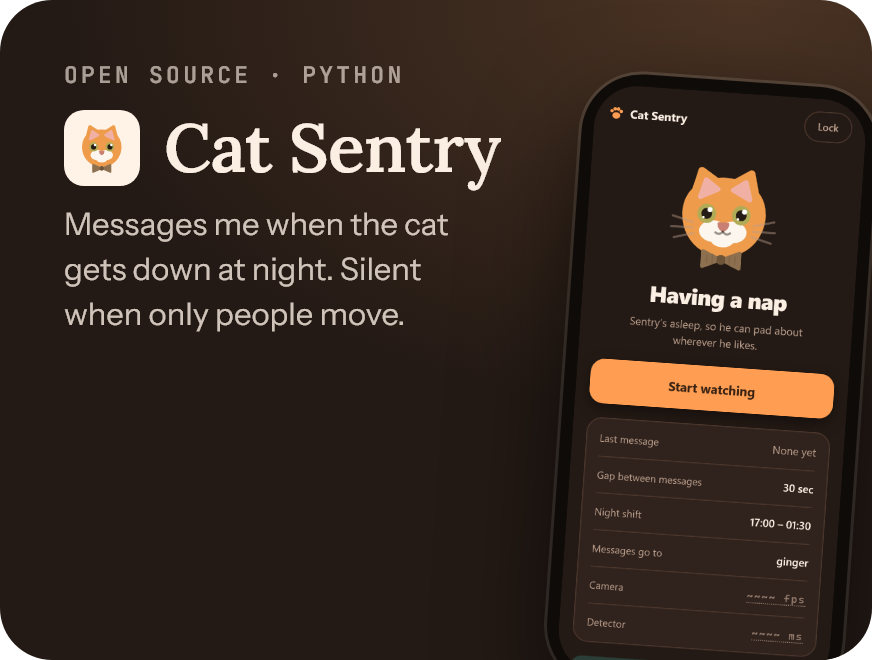
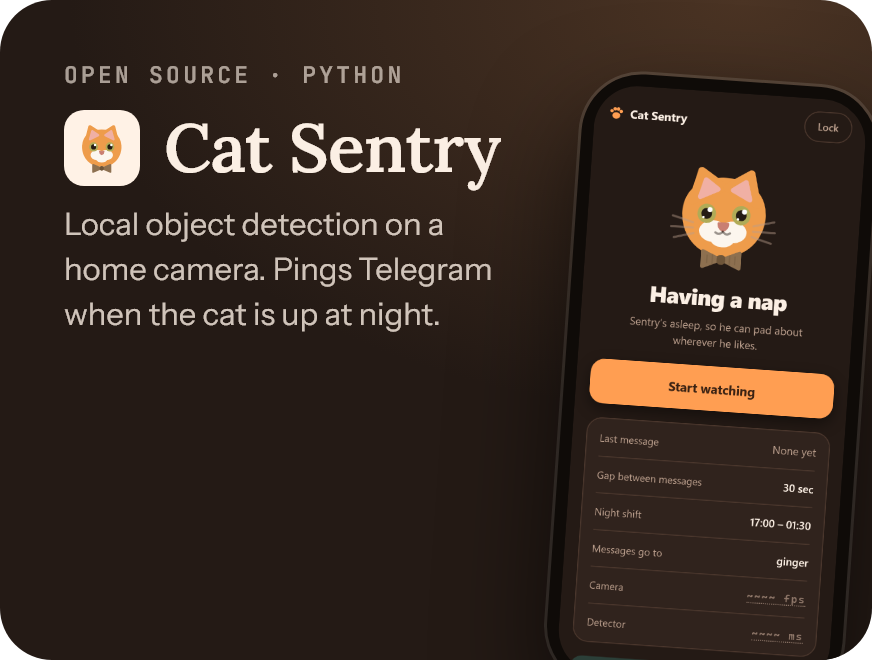
Show the three-AI Longtable table, rename SAMS, clearer Cat Sentry line

Changed region(s): [[0.0619, 0.3939, 0.5883, 0.5152], [0.0619, 0.303, 0.5264, 0.3636]]

diff --git a/assets/src/make-tiles.py b/assets/src/make-tiles.py
@@ -58,17 +58,84 @@ render("longtable", 880, 330, "#f8f6f3", "#24312c",
 # B: zoomed in on the table's one answer and the client's side
 render("longtable-b", 880, 330, "#f8f6f3", "#24312c",
        LT_HEAD + '<img class=shot src="img/longtable-answer.png" style="left:372px;top:44px;width:640px">', lw=310)
-# C: the landing page's tree, every person's AI feeding the table, shown whole
-render("longtable-c", 880, 372, "#f8f6f3", "#24312c",
-       head("Open source · longtable.chat", "Longtable", "Your team, their AIs and your client, at one table. Every AI answers; the table gives one.", "longtable.svg")
-       + '<img src="img/longtable-tree.png" style="position:absolute;left:336px;top:30px;width:520px;-webkit-mask-image:radial-gradient(75% 80% at 50% 50%,#000 70%,transparent)">', lw=270)
 
-render("clarus", 436, 330, "radial-gradient(120% 90% at 80% 0%,#3a2a12,#120d07 70%)", "#f6e9cf",
-       head("Commercial · Windows", "Clarus", "Screenshots and screen recording, built alone from GPU capture to Stripe.", "clarus.svg")
-       + '<img class=shot src="img/clarus-app.png" style="left:46px;top:168px;width:420px;box-shadow:0 18px 50px rgba(0,0,0,.6),0 0 0 1px rgba(255,255,255,.08)">', lw=340)
+CLAUDE_D = "m4.7144 15.9555 4.7174-2.6471.079-.2307-.079-.1275h-.2307l-.7893-.0486-2.6956-.0729-2.3375-.0971-2.2646-.1214-.5707-.1215-.5343-.7042.0546-.3522.4797-.3218.686.0608 1.5179.1032 2.2767.1578 1.6514.0972 2.4468.255h.3886l.0546-.1579-.1336-.0971-.1032-.0972L6.973 9.8356l-2.55-1.6879-1.3356-.9714-.7225-.4918-.3643-.4614-.1578-1.0078.6557-.7225.8803.0607.2246.0607.8925.686 1.9064 1.4754 2.4893 1.8336.3643.3035.1457-.1032.0182-.0728-.164-.2733-1.3539-2.4467-1.445-2.4893-.6435-1.032-.17-.6194c-.0607-.255-.1032-.4674-.1032-.7285L6.287.1335 6.6997 0l.9957.1336.419.3642.6192 1.4147 1.0018 2.2282 1.5543 3.0296.4553.8985.2429.8318.091.255h.1579v-.1457l.1275-1.706.2368-2.0947.2307-2.6957.0789-.7589.3764-.9107.7468-.4918.5828.2793.4797.686-.0668.4433-.2853 1.8517-.5586 2.9021-.3643 1.9429h.2125l.2429-.2429.9835-1.3053 1.6514-2.0643.7286-.8196.85-.9046.5464-.4311h1.0321l.759 1.1293-.34 1.1657-1.0625 1.3478-.8804 1.1414-1.2628 1.7-.7893 1.36.0729.1093.1882-.0183 2.8535-.607 1.5421-.2794 1.8396-.3157.8318.3886.091.3946-.3278.8075-1.967.4857-2.3072.4614-3.4364.8136-.0425.0304.0486.0607 1.5482.1457.6618.0364h1.621l3.0175.2247.7892.522.4736.6376-.079.4857-1.2142.6193-1.6393-.3886-3.825-.9107-1.3113-.3279h-.1822v.1093l1.0929 1.0686 2.0035 1.8092 2.5075 2.3314.1275.5768-.3218.4554-.34-.0486-2.2039-1.6575-.85-.7468-1.9246-1.621h-.1275v.17l.4432.6496 2.3436 3.5214.1214 1.0807-.17.3521-.6071.2125-.6679-.1214-1.3721-1.9246L14.38 17.959l-1.1414-1.9428-.1397.079-.674 7.2552-.3156.3703-.7286.2793-.6071-.4614-.3218-.7468.3218-1.4753.3886-1.9246.3157-1.53.2853-1.9004.17-.6314-.0121-.0425-.1397.0182-1.4328 1.9672-2.1796 2.9446-1.7243 1.8456-.4128.164-.7164-.3704.0667-.6618.4008-.5889 2.386-3.0357 1.4389-1.882.929-1.0868-.0062-.1579h-.0546l-6.3385 4.1164-1.1293.1457-.4857-.4554.0608-.7467.2307-.2429 1.9064-1.3114Z"
+OPENAI_D = "M22.2819 9.8211a5.9847 5.9847 0 0 0-.5157-4.9108 6.0462 6.0462 0 0 0-6.5098-2.9A6.0651 6.0651 0 0 0 4.9807 4.1818a5.9847 5.9847 0 0 0-3.9977 2.9 6.0462 6.0462 0 0 0 .7427 7.0966 5.98 5.98 0 0 0 .511 4.9107 6.051 6.051 0 0 0 6.5146 2.9001A5.9847 5.9847 0 0 0 13.2599 24a6.0557 6.0557 0 0 0 5.7718-4.2058 5.9894 5.9894 0 0 0 3.9977-2.9001 6.0557 6.0557 0 0 0-.7475-7.0729zm-9.022 12.6081a4.4755 4.4755 0 0 1-2.8764-1.0408l.1419-.0804 4.7783-2.7582a.7948.7948 0 0 0 .3927-.6813v-6.7369l2.02 1.1686a.071.071 0 0 1 .038.052v5.5826a4.504 4.504 0 0 1-4.4945 4.4944zm-9.6607-4.1254a4.4708 4.4708 0 0 1-.5346-3.0137l.142.0852 4.783 2.7582a.7712.7712 0 0 0 .7806 0l5.8428-3.3685v2.3324a.0804.0804 0 0 1-.0332.0615L9.74 19.9502a4.4992 4.4992 0 0 1-6.1408-1.6464zM2.3408 7.8956a4.485 4.485 0 0 1 2.3655-1.9728V11.6a.7664.7664 0 0 0 .3879.6765l5.8144 3.3543-2.0201 1.1685a.0757.0757 0 0 1-.071 0l-4.8303-2.7865A4.504 4.504 0 0 1 2.3408 7.872zm16.5963 3.8558L13.1038 8.364 15.1192 7.2a.0757.0757 0 0 1 .071 0l4.8303 2.7913a4.4944 4.4944 0 0 1-.6765 8.1042v-5.6772a.79.79 0 0 0-.407-.667zm2.0107-3.0231l-.142-.0852-4.7735-2.7818a.7759.7759 0 0 0-.7854 0L9.409 9.2297V6.8974a.0662.0662 0 0 1 .0284-.0615l4.8303-2.7866a4.4992 4.4992 0 0 1 6.6802 4.66zM8.3065 12.863l-2.02-1.1638a.0804.0804 0 0 1-.038-.0567V6.0742a4.4992 4.4992 0 0 1 7.3757-3.4537l-.142.0805L8.704 5.459a.7948.7948 0 0 0-.3927.6813zm1.0976-2.3654l2.602-1.4998 2.6069 1.4998v2.9994l-2.5974 1.4997-2.6067-1.4997Z"
+def ai(kind, size):
+    d, fill = (CLAUDE_D, "#D97757") if kind == "claude" else (OPENAI_D, "#1f2a26")
+    return f'<svg width="{size}" height="{size}" viewBox="0 0 24 24" style="display:block;flex:none"><path d="{d}" fill="{fill}"/></svg>'
+MARK = ('<svg width="26" height="26" viewBox="0 0 64 64"><rect x="7.04" y="22.4" width="49.92" height="19.2" rx="9.6" fill="#24312c"/>'
+        '<circle cx="17.92" cy="13.66" r="4.16" fill="#b67166"/><circle cx="32" cy="13.66" r="4.16" fill="#5b8abb"/><circle cx="46.08" cy="13.66" r="4.16" fill="#9777af"/>'
+        '<circle cx="17.92" cy="50.34" r="4.16" fill="#9777af"/><circle cx="32" cy="50.34" r="4.16" fill="#438a73"/><circle cx="46.08" cy="50.34" r="4.16" fill="#b67166"/></svg>')
+
+def lt_tree():
+    people = [("M", "Maya", "#c75f4e", "claude", "Opus 5.5", 420), ("S", "Sam", "#4b7fc1", "claude", "Sonnet 5.5", 597), ("P", "Priya", "#4d9a68", "codex", "GPT-5.5", 774)]
+    TX, TY = 597, 236
+    out = ['<svg style="position:absolute;left:0;top:0" width="880" height="380">']
+    for _, _, _, kind, _, x in people:
+        col = "#e9a183" if kind == "claude" else "#5fc49b"
+        out.append(f'<path d="M{x},178 C{x},212 {TX},204 {TX},{TY}" fill="none" stroke="{col}" stroke-width="2" opacity=".85"/>')
+        out.append(f'<line x1="{x}" y1="86" x2="{x}" y2="116" stroke="#cfd3cc" stroke-width="1.5"/>')
+    out.append(f'<line x1="{TX}" y1="318" x2="{TX}" y2="332" stroke="#cfd3cc" stroke-width="1.5"/>')
+    out.append('</svg>')
+    for ini, name, colr, kind, model, x in people:
+        out.append(f'<div style="position:absolute;left:{x-30}px;top:30px;width:60px;text-align:center">'
+                   f'<div style="position:relative;width:34px;height:34px;margin:0 auto;border-radius:50%;background:{colr};color:#fff;font:600 15px Inst;display:grid;place-items:center">{ini}'
+                   f'<span style="position:absolute;right:-1px;bottom:-1px;width:10px;height:10px;border-radius:50%;background:#3fae6a;box-shadow:0 0 0 2px #f8f6f3"></span></div>'
+                   f'<div style="font:500 12px Inst;margin-top:5px;color:#3b4642">{name}</div></div>')
+        bg, bd = ("#fde8dc", "#f2cdb9") if kind == "claude" else ("#dcf4e9", "#b9e5d1")
+        maker = "Claude" if kind == "claude" else "ChatGPT"
+        out.append(f'<div style="position:absolute;left:{x-72}px;top:118px;width:144px;height:58px;box-sizing:border-box;border-radius:12px;background:{bg};border:1px solid {bd};padding:9px 11px">'
+                   f'<div style="display:flex;align-items:center;gap:6px">{ai(kind, 15)}<span style="font:500 11px Inst;color:#6b6f6a">{maker}</span>'
+                   f'<span style="margin-left:auto;width:8px;height:8px;border-radius:50%;background:#3fae6a"></span></div>'
+                   f'<div style="font:600 14.5px Inst;color:#1f2a26;margin-top:4px">{model}</div></div>')
+    out.append(f'<div style="position:absolute;left:{TX-82}px;top:{TY}px;width:164px;height:82px;box-sizing:border-box;border-radius:14px;background:#fff;'
+               f'box-shadow:0 8px 24px rgba(36,49,44,.12),0 0 0 1px rgba(36,49,44,.06);text-align:center;padding-top:9px">'
+               f'<div style="font:600 9.5px Mono;letter-spacing:.14em;color:#7b807a">THE TABLE</div><div style="display:flex;justify-content:center;margin:5px 0 3px">{MARK}</div>'
+               f'<div style="font:500 13px Inst;color:#1f2a26">Claude Sonnet 5.5</div></div>')
+    for name, colr, x in (("Elena Ruiz", "#a8608d", TX - 64), ("Tom Becker", "#2f8d87", TX + 64)):
+        out.append(f'<div style="position:absolute;left:{x-58}px;top:334px;width:116px;height:30px;box-sizing:border-box;border-radius:99px;background:#fff;'
+                   f'box-shadow:0 0 0 1px rgba(36,49,44,.1);display:flex;align-items:center;gap:7px;padding:0 10px 0 5px">'
+                   f'<span style="width:20px;height:20px;border-radius:50%;background:{colr};flex:none"></span>'
+                   f'<span style="font:500 11px/1.1 Inst;color:#1f2a26">{name}<br><span style="color:#8a8f88;font-size:9.5px">Client</span></span></div>')
+    return "".join(out)
+
+# C: the tree, drawn here: three people, their AIs, the table and two clients
+render("longtable-c", 880, 488, "#f8f6f3", "#24312c",
+       head("Open source · longtable.chat", "Longtable", "Your team, their AIs and your client, at one table. Every AI answers; the table gives one.", "longtable.svg")
+       + '<img src="img/longtable-tree3.png" style="position:absolute;left:350px;top:22px;width:490px">', lw=280)
+
+KEY = lambda k: f'<span style="font:600 10px Mono;color:#d9cdb6;background:#2a251d;border:1px solid #3a3326;border-radius:5px;padding:2px 5px">{k}</span>'
+ICONS = {"Area": '<path d="M4 7V4h3M17 4h3v3M20 17v3h-3M7 20H4v-3" fill="none" stroke="#f1d9a6" stroke-width="1.8" stroke-linecap="round"/>',
+         "Record": '<circle cx="12" cy="12" r="8" fill="none" stroke="#f1d9a6" stroke-width="1.8"/><circle cx="12" cy="12" r="3.5" fill="#f1d9a6"/>',
+         "Scrolling": '<path d="M12 4v16M8 8l4-4 4 4M8 16l4 4 4-4" fill="none" stroke="#f1d9a6" stroke-width="1.8" stroke-linecap="round" stroke-linejoin="round"/>',
+         "Extract text": '<path d="M4 7V4h3M17 4h3v3M20 17v3h-3M7 20H4v-3M9 9h6M12 9v7" fill="none" stroke="#f1d9a6" stroke-width="1.8" stroke-linecap="round"/>'}
+def mode(name, keys, x, y):
+    return (f'<div style="position:absolute;left:{x}px;top:{y}px;width:180px;height:62px;box-sizing:border-box;border-radius:12px;background:#1b1813;'
+            f'border:1px solid rgba(241,217,166,.12);padding:10px 12px;display:flex;gap:10px;align-items:center">'
+            f'<div style="width:34px;height:34px;border-radius:9px;background:#0f0d0a;display:grid;place-items:center;flex:none"><svg width="18" height="18" viewBox="0 0 24 24">{ICONS[name]}</svg></div>'
+            f'<div><div style="font:600 13px Inst;color:#f6e9cf;margin-bottom:5px">{name}</div><div style="display:flex;gap:3px">{"".join(KEY(k) for k in keys)}</div></div></div>')
+CL_HEAD = head("Commercial · Windows", "Clarus", "Screenshots and screen recording, built alone from GPU capture to Stripe.", "clarus.svg")
+CL_BG = "radial-gradient(120% 90% at 80% 0%,#3a2a12,#120d07 70%)"
+# A: the whole app window, scaled to fit, nothing cut off
+render("clarus", 436, 330, CL_BG, "#f6e9cf",
+       CL_HEAD + '<img class=shot src="img/clarus-app.png" style="left:118px;top:150px;width:200px;'
+       'box-shadow:0 18px 40px rgba(0,0,0,.6),0 0 0 1px rgba(255,255,255,.1)">', lw=340)
+# B: the 3D prism from getclarus.dev (its baked prism-spin.webm), turned slightly
+GOLD_BG = "radial-gradient(70% 70% at 76% 58%,#3d2b12,#0d0b08 70%)"
+render("clarus-b", 436, 330, GOLD_BG, "#f6e9cf",
+       CL_HEAD.replace('<img src="img/clarus.svg">', '')
+       + '<img src="img/prism-angle.png" style="position:absolute;right:-4px;bottom:-16px;width:212px;filter:drop-shadow(0 24px 30px rgba(0,0,0,.55))">', lw=250)
+# C: the same prism facing front, with the shortcut most people press
+render("clarus-c", 436, 330, GOLD_BG, "#f6e9cf",
+       CL_HEAD.replace('<img src="img/clarus.svg">', '')
+       + '<img src="img/prism-front.png" style="position:absolute;right:8px;bottom:-2px;width:196px;filter:drop-shadow(0 24px 30px rgba(0,0,0,.55))">'
+       + '<div style="position:absolute;left:32px;bottom:30px;display:flex;gap:6px;align-items:center;font:600 12px Mono;color:#a8987a">'
+       + ' <span style="color:#a8987a">+</span> '.join(f'<span style="padding:5px 9px;border-radius:7px;background:#211b12;border:1px solid #3d3220;color:#f1d9a6;box-shadow:0 2px 0 #3d3220">{k}</span>' for k in ("Win", "Shift", "S"))
+       + '<span style="margin-left:8px">area capture</span></div>', lw=250)
 
 render("sams", 436, 330, "linear-gradient(150deg,#ece9fb,#dfeef1)", "#1b1f2a",
-       head("Client project · UOWD Media Studio", "Studio booking", "Live 14 days after the handover. 25 students now test it with real bookings.", "sams.png")
+       head("Client project · UOWD Media Studio", "SAMS", "Live 14 days after the handover. 25 students now test it with real bookings.", "sams.png")
        + '<img class=shot src="img/sams-today.png" style="left:46px;top:168px;width:420px">', lw=340)
 
 render("upchirp", 436, 330, "radial-gradient(110% 90% at 85% 0%,#24502f,#10241a 70%)", "#eaefd1",
@@ -76,7 +143,7 @@ render("upchirp", 436, 330, "radial-gradient(110% 90% at 85% 0%,#24502f,#10241a 
        + '<img class=shot src="img/upchirp-live.png" style="left:46px;top:168px;width:440px;box-shadow:0 18px 50px rgba(0,0,0,.55),0 0 0 1px rgba(234,239,209,.12)">', lw=340)
 
 render("catsentry", 436, 330, "radial-gradient(110% 90% at 85% 0%,#4b3424,#241a15 70%)", "#fbefe4",
-       head("Open source · Python", "Cat Sentry", "Messages me when the cat gets down at night. Silent when only people move.", "catsentry.svg")
+       head("Open source · Python", "Cat Sentry", "Local object detection on a home camera. Pings Telegram when the cat is up at night.", "catsentry.svg")
        + '<div style="position:absolute;left:282px;top:40px;width:136px;padding:6px;border-radius:30px;background:#0f0b08;'
          'box-shadow:0 22px 50px rgba(0,0,0,.6),0 0 0 1.5px rgba(251,239,228,.14);transform:rotate(4deg)">'
          '<img src="img/catsentry-phone.png" style="display:block;width:136px;border-radius:22px"></div>', lw=215)

diff --git a/README.md b/README.md
@@ -2,9 +2,9 @@
 
 <a href="https://github.com/TarikAlHadethi/Longtable"><img src="assets/tiles/longtable.png" width="100%" alt="Longtable: your team, their AIs and your client, at one table. Open source, live at longtable.chat."></a>
 
-<a href="https://getclarus.dev"><img src="assets/tiles/clarus.png" width="49%" alt="Clarus: screenshots and screen recording for Windows, built alone from GPU capture to Stripe."></a> <a href="https://tarikalhadethi.com/writing/nine-emails-to-a-live-product/"><img src="assets/tiles/sams.png" width="49%" alt="Studio booking system for the UOWD Media Studio, live 14 days after the handover, with 25 students testing it with real bookings."></a>
+<a href="https://getclarus.dev"><img src="assets/tiles/clarus.png" width="49%" alt="Clarus: screenshots and screen recording for Windows, built alone from GPU capture to Stripe."></a> <a href="https://tarikalhadethi.com/writing/nine-emails-to-a-live-product/"><img src="assets/tiles/sams.png" width="49%" alt="SAMS, the booking system for the UOWD Media Studio, live 14 days after the handover, with 25 students testing it with real bookings."></a>
 
-<a href="https://github.com/TarikAlHadethi/upchirp"><img src="assets/tiles/upchirp.png" width="49%" alt="Upchirp: ask a radar what it saw, an AI agent over offline sensor data."></a> <a href="https://github.com/TarikAlHadethi/Cat-Sentry"><img src="assets/tiles/catsentry.png" width="49%" alt="Cat Sentry: messages me when the cat gets down at night, silent when only people move."></a>
+<a href="https://github.com/TarikAlHadethi/upchirp"><img src="assets/tiles/upchirp.png" width="49%" alt="Upchirp: ask a radar what it saw, an AI agent over offline sensor data."></a> <a href="https://github.com/TarikAlHadethi/Cat-Sentry"><img src="assets/tiles/catsentry.png" width="49%" alt="Cat Sentry: local object detection on a home camera that pings Telegram when the cat is up at night."></a>
 
 <a href="https://github.com/sonos/tract/pulls?q=is%3Apr+author%3ATarikAlHadethi+is%3Amerged"><img src="assets/tiles/tract.png" width="49%" alt="Six pull requests merged into sonos/tract: 2x2 max pool 8.82 to 2.55 ms, stride-2 deconvolution 5.71 to 1.54 ms, direct convolution 237.6 to 211.6 ms."></a> <a href="https://tarikalhadethi.com/writing"><img src="assets/tiles/writing.png" width="49%" alt="Twelve write-ups on bugs, measurements and my own mistakes."></a>
 
